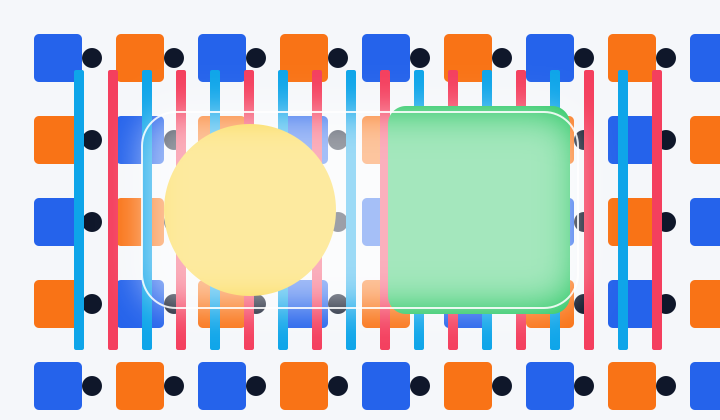
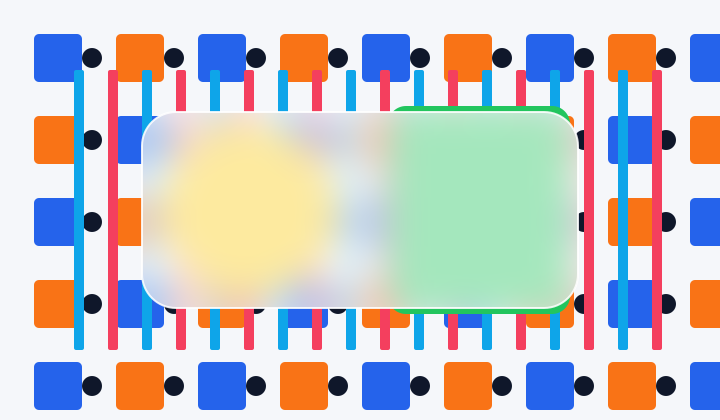
Implement backdrop layer functionality for scene rendering; refactor related methods and add tests for backdrop filter behavior.

Changed region(s): [[0.1528, 0.2167, 0.825, 0.7738]]

diff --git a/src/cpu/renderer.rs b/src/cpu/renderer.rs
@@ -3,7 +3,10 @@ use std::{
     time::Duration,
 };
 
-use peniko::Color;
+use peniko::{
+    Color,
+    kurbo::{Point, Shape},
+};
 
 use crate::{
     cpu::{
@@ -21,7 +24,10 @@ use crate::{
         execution::{ExecOp, ExecPlan, LayerStackEntry},
         image::{Image, rgba8_pack},
         layer::Layer,
+        layer::region::Region,
         line_seg::LineSegment,
+        pixel::coverage_f32_to_u8,
+        sdf::rect::Rect as SdfRect,
         tile_ptcl::{TilePtcl, TilePtclRange},
         tile_seg_range::TileSegmentRange,
     },
@@ -336,9 +342,60 @@ impl Renderer {
                 composite_src_over_masked_at(target, &image, &mask, bounds, target_bounds);
             }
             Layer::Backdrop {
-                filter: _,
-                sample_region: _,
-            } => todo!(),
+                filter,
+                sample_region,
+            } => {
+                let bounds = self.filter.filtered_region_bounds(
+                    filter,
+                    sample_region,
+                    Bounds::canvas(scene.width, scene.height),
+                );
+                if bounds.is_empty() {
+                    return;
+                }
+
+                let mut backdrop = copy_image_region(target, bounds, target_bounds);
+                self.filter.prepare(&mut backdrop, filter, bounds).run();
+
+                let mut backdrop_mask = rasterize_region_mask(sample_region, bounds);
+                self.apply_outer_clip_stack_to_mask(
+                    scene,
+                    plan,
+                    offscreen.outer_stack.clone(),
+                    bounds,
+                    &mut backdrop_mask,
+                );
+                composite_src_over_masked_at(
+                    target,
+                    &backdrop,
+                    &backdrop_mask,
+                    bounds,
+                    target_bounds,
+                );
+
+                let mut content = Image::new(
+                    target_bounds.width(),
+                    target_bounds.height(),
+                    Color::TRANSPARENT,
+                );
+                self.execute_ops(scene, plan, offscreen.children, &mut content, target_bounds);
+                let mut content_mask =
+                    Image::new(target_bounds.width(), target_bounds.height(), Color::WHITE);
+                self.apply_outer_clip_stack_to_mask(
+                    scene,
+                    plan,
+                    offscreen.outer_stack,
+                    target_bounds,
+                    &mut content_mask,
+                );
+                composite_src_over_masked_at(
+                    target,
+                    &content,
+                    &content_mask,
+                    target_bounds,
+                    target_bounds,
+                );
+            }
             _ => unreachable!(),
         }
     }
@@ -452,6 +509,91 @@ impl Renderer {
         }
         image
     }
+}
+
+fn copy_image_region(source: &Image, bounds: Bounds, source_bounds: Bounds) -> Image {
+    let mut image = Image::new(bounds.width(), bounds.height(), Color::TRANSPARENT);
+    for y in 0..image.height {
+        let src_y = bounds.y0 + y as i32 - source_bounds.y0;
+        if src_y < 0 || src_y >= source.height as i32 {
+            continue;
+        }
+        for x in 0..image.width {
+            let src_x = bounds.x0 + x as i32 - source_bounds.x0;
+            if src_x < 0 || src_x >= source.width as i32 {
+                continue;
+            }
+            let src_ix = (src_y as u32 * source.width + src_x as u32) as usize;
+            image.pixels[(y * image.width + x) as usize] = source.pixels[src_ix];
+        }
+    }
+    image
+}
+
+fn rasterize_region_mask(region: &Region, bounds: Bounds) -> Image {
+    let mut image = Image::new(bounds.width(), bounds.height(), Color::TRANSPARENT);
+    match region {
+        Region::Rect { rect, radius } => {
+            let sdf = SdfRect {
+                start: Point::new(rect.x0, rect.y0),
+                end: Point::new(rect.x1, rect.y1),
+                radius: *radius,
+            };
+            let tile_x0 = bounds.x0.div_euclid(crate::TILE_SIZE as i32);
+            let tile_y0 = bounds.y0.div_euclid(crate::TILE_SIZE as i32);
+            let tile_x1 =
+                (bounds.x1 + crate::TILE_SIZE as i32 - 1).div_euclid(crate::TILE_SIZE as i32);
+            let tile_y1 =
+                (bounds.y1 + crate::TILE_SIZE as i32 - 1).div_euclid(crate::TILE_SIZE as i32);
+            for tile_y in tile_y0..tile_y1 {
+                for tile_x in tile_x0..tile_x1 {
+                    let tile_bounds = Bounds::new(
+                        tile_x * crate::TILE_SIZE as i32,
+                        tile_y * crate::TILE_SIZE as i32,
+                        (tile_x + 1) * crate::TILE_SIZE as i32,
+                        (tile_y + 1) * crate::TILE_SIZE as i32,
+                    );
+                    let pixel_bounds = tile_bounds.intersect(bounds);
+                    if pixel_bounds.is_empty() {
+                        continue;
+                    }
+                    let mut area = [0.0; crate::BLOCK_SIZE as usize];
+                    sdf.fine_area(&mut area, tile_bounds, pixel_bounds);
+                    for global_y in pixel_bounds.y0..pixel_bounds.y1 {
+                        let tile_row =
+                            (global_y - tile_bounds.y0) as usize * crate::TILE_SIZE as usize;
+                        let local_y = (global_y - bounds.y0) as u32;
+                        for global_x in pixel_bounds.x0..pixel_bounds.x1 {
+                            let tile_ix = tile_row + (global_x - tile_bounds.x0) as usize;
+                            let alpha = coverage_f32_to_u8(area[tile_ix]);
+                            if alpha == 0 {
+                                continue;
+                            }
+                            let local_x = (global_x - bounds.x0) as u32;
+                            let ix = (local_y * image.width + local_x) as usize;
+                            image.pixels[ix] = rgba8_pack([alpha, alpha, alpha, alpha]);
+                        }
+                    }
+                }
+            }
+        }
+        Region::Path {
+            path, transform, ..
+        } => {
+            let path = *transform * path;
+            for y in 0..image.height {
+                let py = bounds.y0 as f64 + y as f64 + 0.5;
+                for x in 0..image.width {
+                    let px = bounds.x0 as f64 + x as f64 + 0.5;
+                    if path.contains(Point::new(px, py)) {
+                        let ix = (y * image.width + x) as usize;
+                        image.pixels[ix] = rgba8_pack([255, 255, 255, 255]);
+                    }
+                }
+            }
+        }
+    }
+    image
 }
 
 #[cfg(test)]
@@ -635,6 +777,27 @@ mod tests {
             expanded_px[1] < 245 && expanded_px[2] < 245,
             "expected blur outside sample region, got {expanded_px:?}"
         );
+    }
+
+    #[test]
+    fn backdrop_filter_samples_existing_target() {
+        let mut scene = Scene::new(48, 24);
+        scene.push_rect(
+            Rect::new(0.0, 0.0, 48.0, 24.0),
+            Color::from_rgb8(255, 0, 0),
+            FillRule::NonZero,
+        );
+        scene.push_backdrop_layer(
+            Filter::Invert(1.0),
+            Region::rect(Rect::new(8.0, 4.0, 32.0, 20.0), Radius::all(0.0)),
+        );
+        scene.pop_layer();
+
+        let mut renderer = Renderer::new(48, 24, Color::WHITE);
+        renderer.render(&scene);
+
+        assert_eq!(renderer.image().rgba8_at(12, 8), [0, 255, 255, 255]);
+        assert_eq!(renderer.image().rgba8_at(4, 8), [255, 0, 0, 255]);
     }
 
     #[test]

diff --git a/src/scene.rs b/src/scene.rs
@@ -332,6 +332,29 @@ impl Scene {
         self.layer_stack.push(LayerKind::Filter);
     }
 
+    /// Adds a backdrop filter group sampled from the already-rendered target.
+    ///
+    /// The filter samples pixels behind this layer from `sample_region`, clips
+    /// the filtered backdrop back to that region, then renders this layer's
+    /// children normally on top.
+    pub fn push_backdrop_layer(&mut self, filter: Filter, sample_region: Region) {
+        self.ensure_command_root();
+        let children = self.command_lists.len();
+        self.command_lists.push(CommandList::default());
+        self.current_command_list_mut()
+            .commands
+            .push(Command::Layer {
+                draw: 0,
+                layer: Layer::Backdrop {
+                    filter,
+                    sample_region,
+                },
+                children,
+            });
+        self.command_stack.push(children);
+        self.layer_stack.push(LayerKind::Backdrop);
+    }
+
     pub fn pop_layer(&mut self) -> Option<LayerKind> {
         self.ensure_command_root();
         let layer_kind = self.layer_stack.pop()?;

diff --git a/examples/common/layer_filter_scenes.rs b/examples/common/layer_filter_scenes.rs
@@ -153,7 +153,7 @@ pub fn backdrop_blur_scene() -> Scene {
     );
 
     let panel = Rect::new(142.0, 112.0, 578.0, 308.0);
-    scene.push_filter_layer(Filter::Blur(18.0), Region::rect(panel, Radius::all(34.0)));
+    scene.push_backdrop_layer(Filter::Blur(18.0), Region::rect(panel, Radius::all(34.0)));
     fill_rect(
         &mut scene,
         panel,
@@ -202,7 +202,7 @@ pub fn liquid_glass_scene() -> Scene {
     );
 
     let panel = Rect::new(126.0, 104.0, 594.0, 316.0);
-    scene.push_filter_layer(Filter::Blur(9.0), Region::rect(panel, Radius::all(42.0)));
+    scene.push_backdrop_layer(Filter::Blur(9.0), Region::rect(panel, Radius::all(42.0)));
     fill_rect(
         &mut scene,
         panel,
